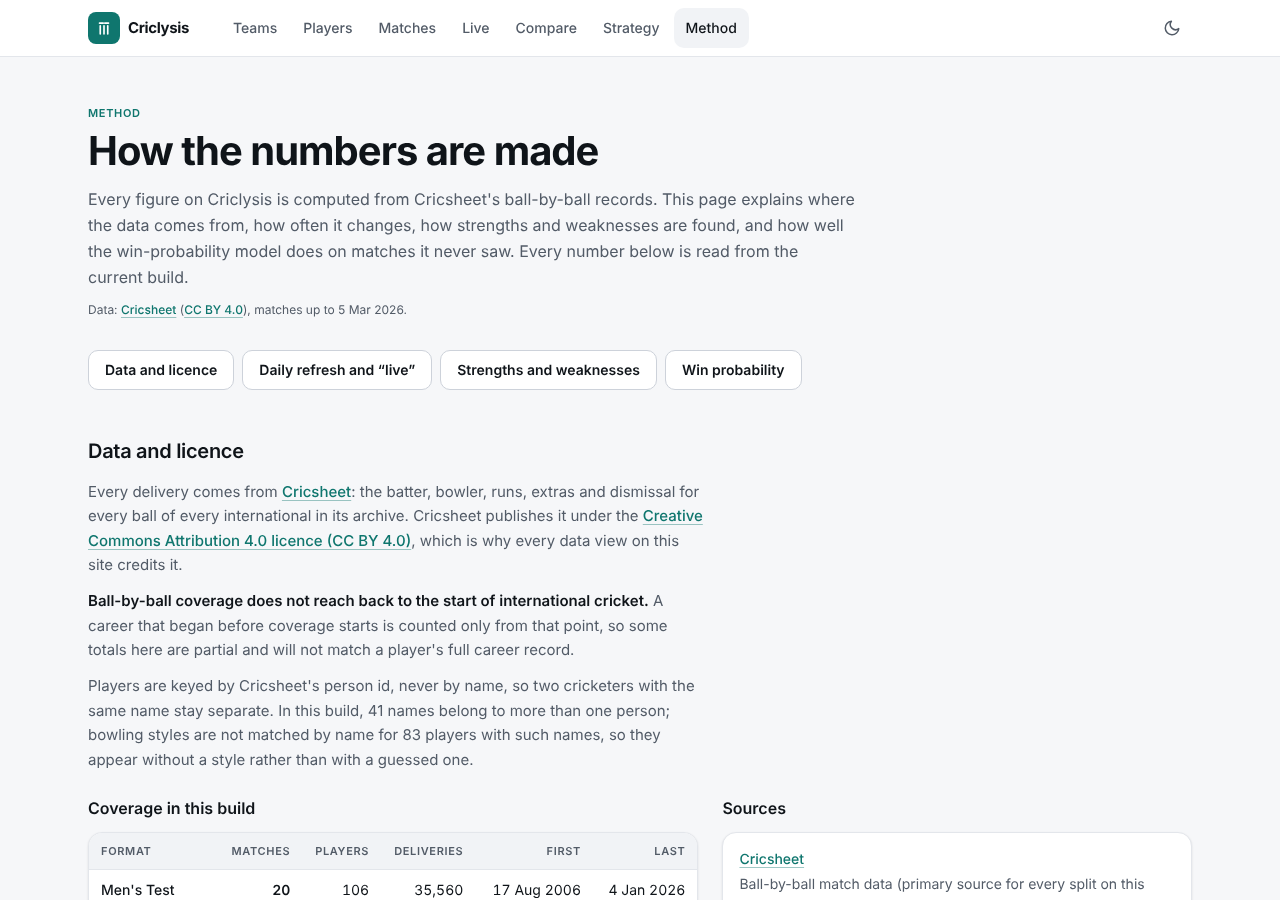
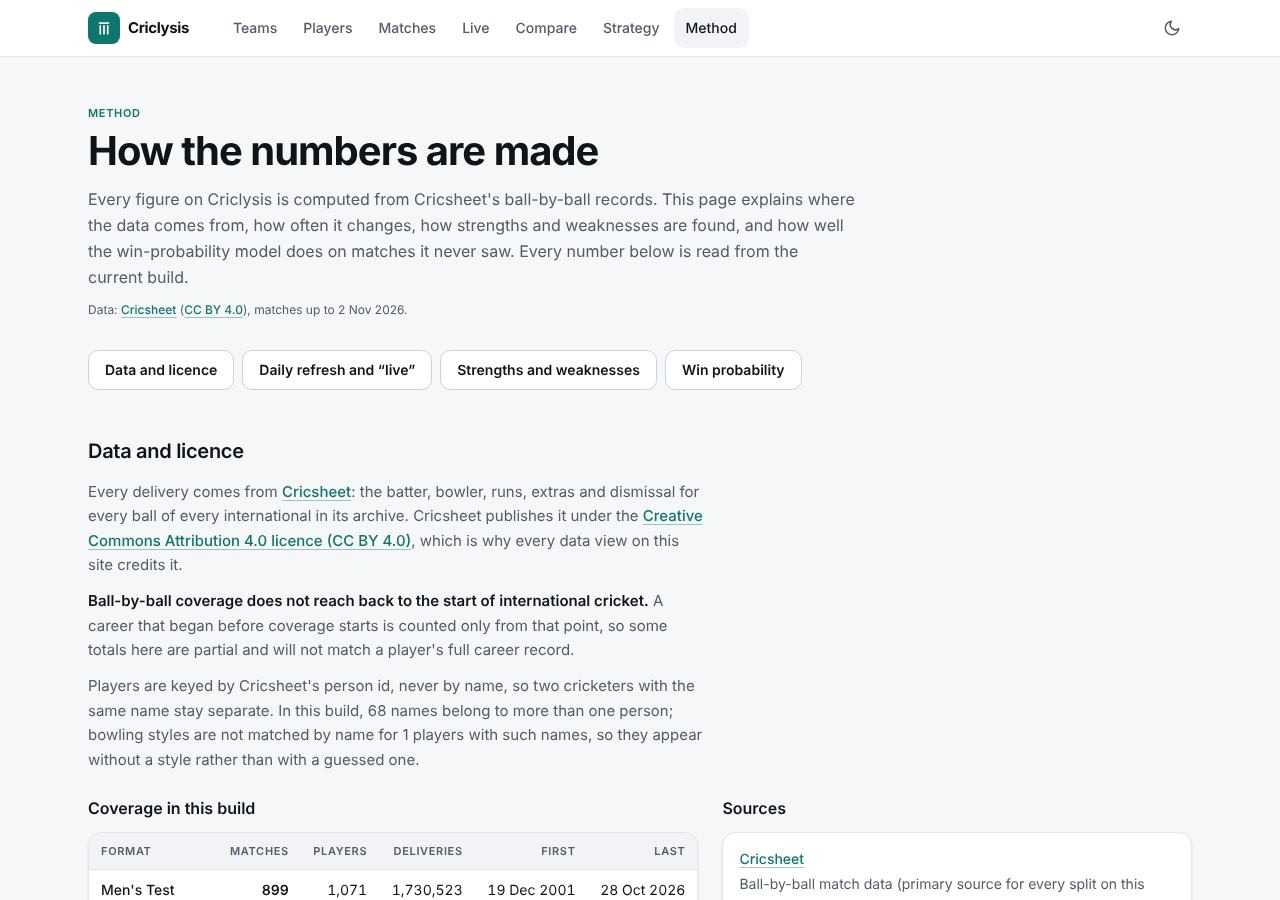
README: link the live site and retake screenshots on the full dataset (#12)
The README now links https://criclysis.vercel.app, and its six screenshots
are retaken from the live site on the full dataset (data through 2 Nov 2026)
instead of the 110-match development fixture.

Claude-Session: https://claude.ai/code/session_01Q4CQynytjgRmpuySxFszT6

diff --git a/README.md b/README.md
@@ -11,7 +11,7 @@ every day, so new internationals appear within about a day. "Live" here means
 that daily refresh plus a replay engine; there is no live-score API, no API
 key and no paid service.
 
-<!-- TODO: live link -->
+**Live site: [criclysis.vercel.app](https://criclysis.vercel.app)**
 
 As of the 9 Nov 2026 build (refreshed daily): **10,009 matches**, **5,329
 player profiles**, **201 teams** and **382 venues**, with data through
@@ -19,9 +19,8 @@ player profiles**, **201 teams** and **382 venues**, with data through
 
 ## Screenshots
 
-> These come from a local production build on the **110-match development
-> fixture** (`fixtures/data-out`), not the full dataset, so the numbers in them
-> differ from the live site. For example, Virat Kohli shows 14 ODIs here.
+> Taken from the live site on 9 Nov 2026, on the full dataset (data through
+> 2 Nov 2026). The numbers on the site move as the daily refresh adds matches.
 
 | | |
 |---|---|
